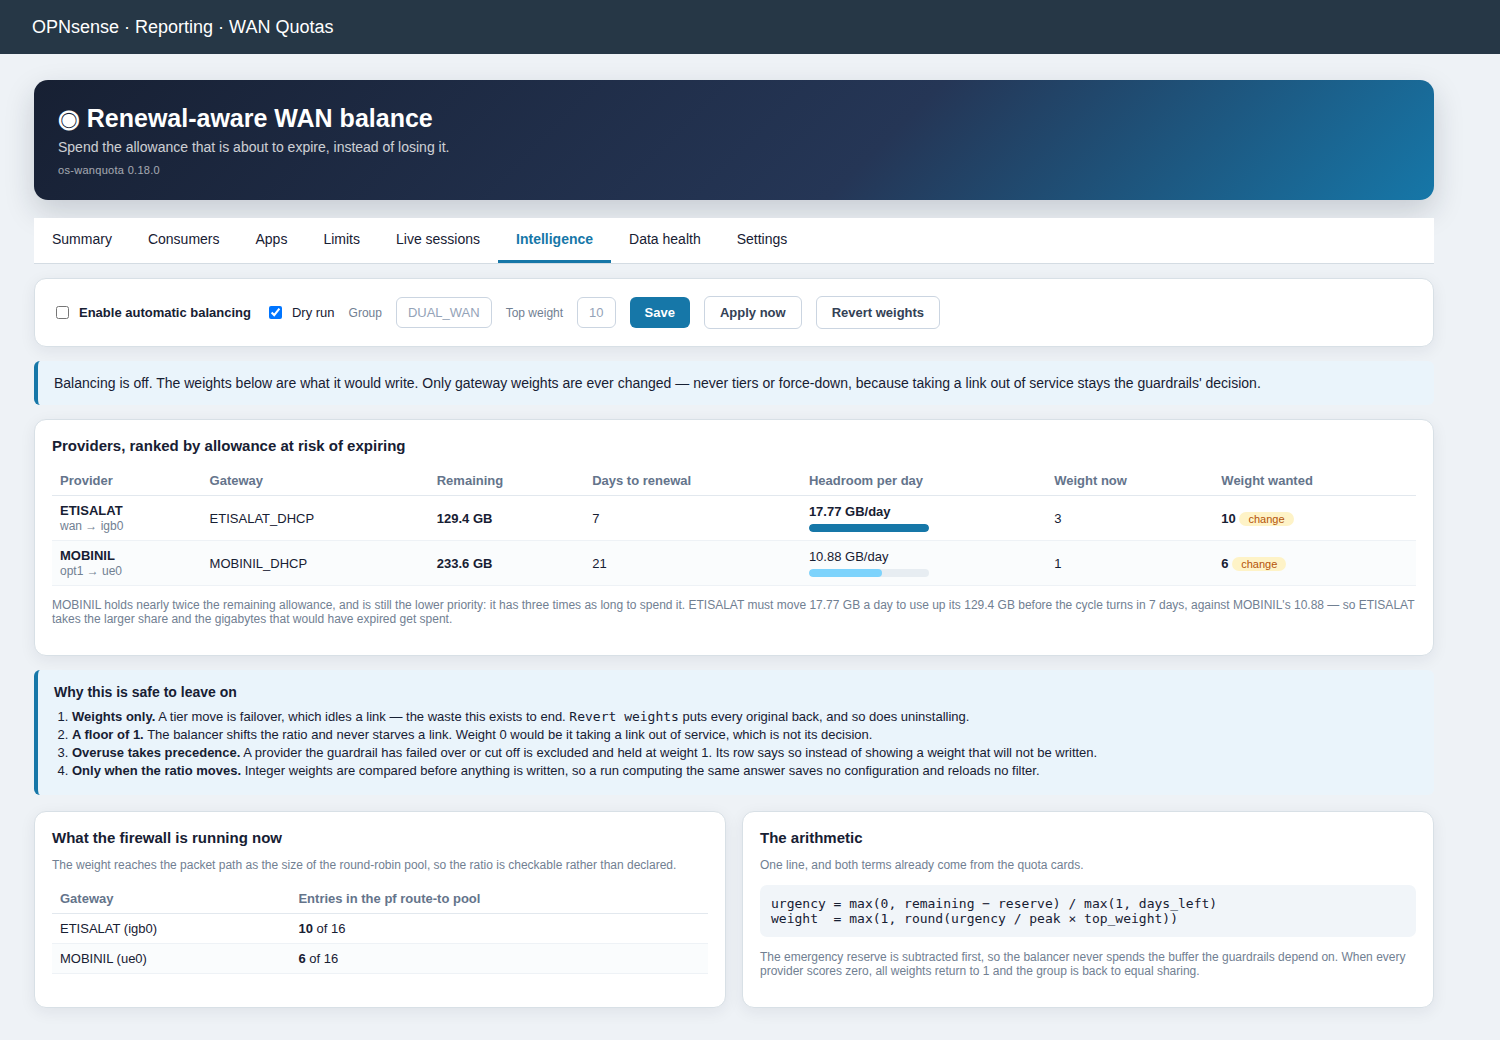
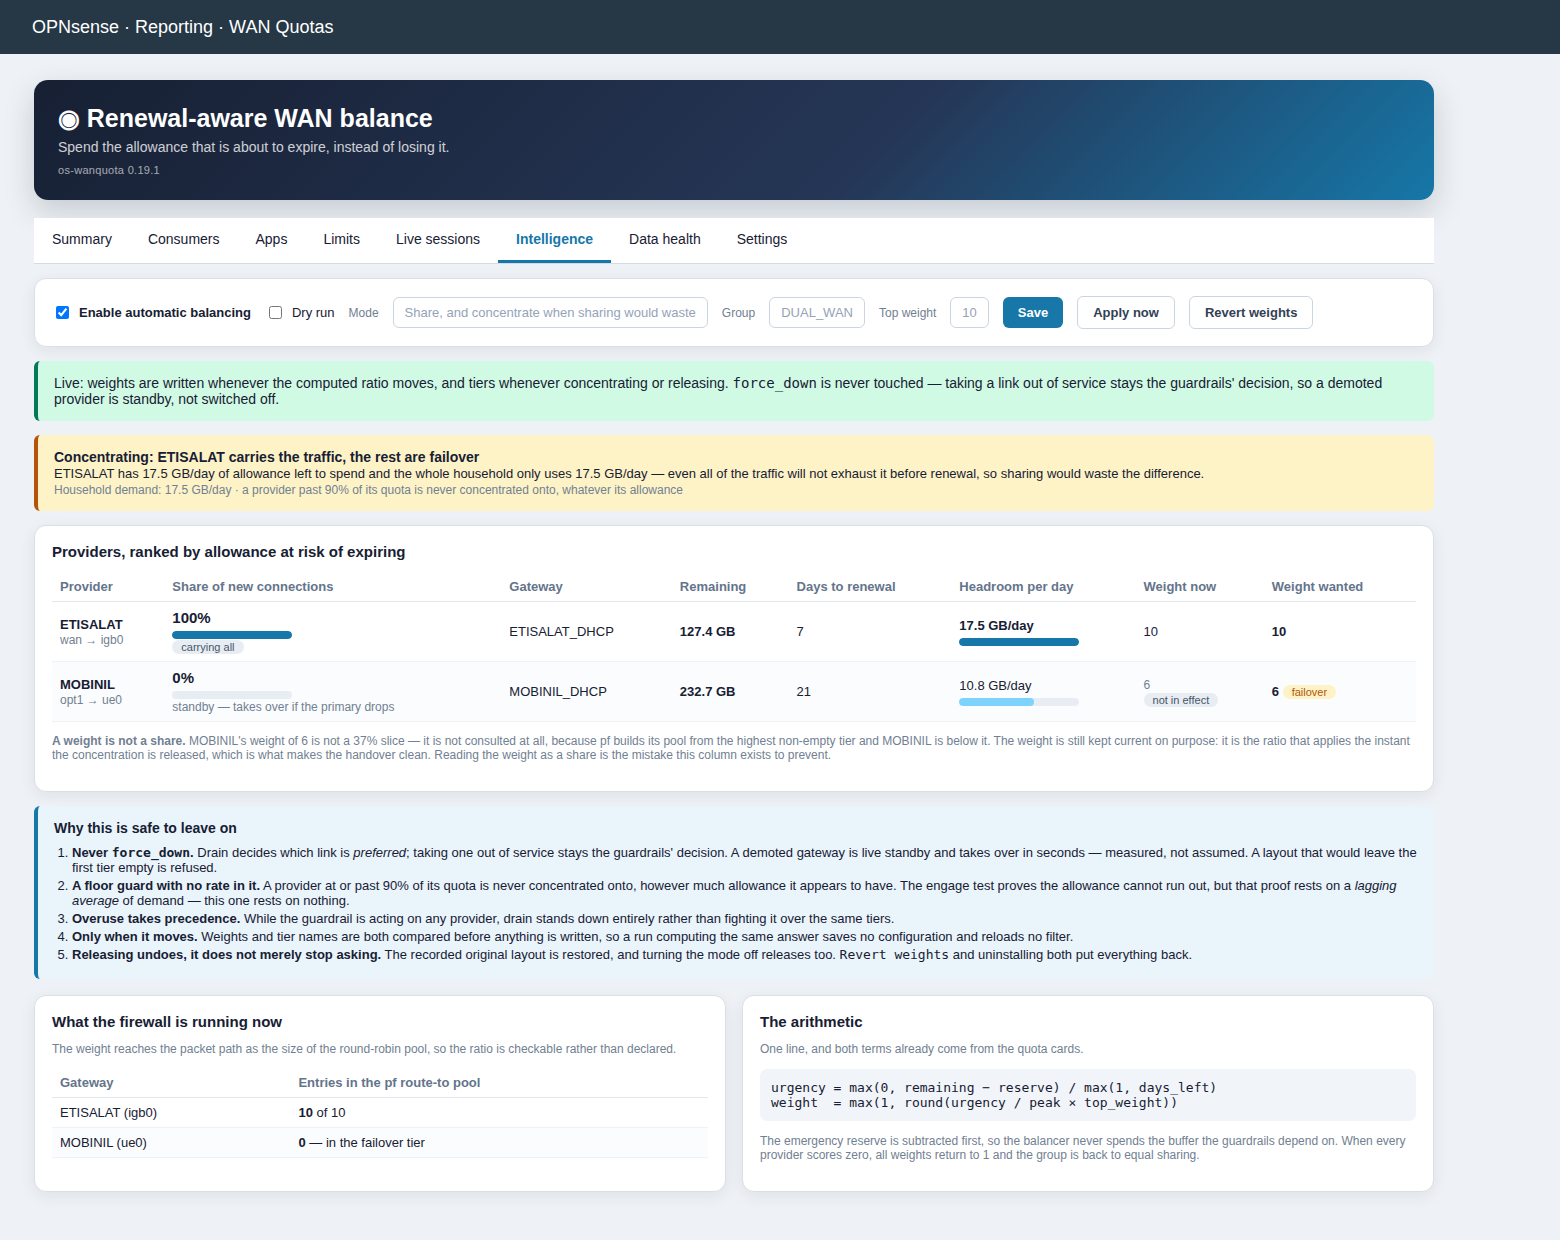
Lead with the share, and say when a weight is not being consulted
"Weight 6" beside a link carrying nothing is a fair way to be misled, and it misled
the person reading it -- reasonably, since 10:6 looks like 63/37. It was 0%. A
gateway in a lower tier receives nothing whatever its weight, because pf builds its
pool from the highest non-empty tier and ignores the rest.

So the panel now leads with the share of new connections, computed from the tier
layout and the weights together the way pf builds the pool, with a bar and a plain
"standby -- takes over if the primary drops" under a zero. The weight columns stay,
because the ratio still matters, but a weight that is not consulted is greyed and
marked "not in effect" with the reason: it is kept current on purpose, since it is
the ratio that applies the instant a concentration is released, and holding the
right value there is what makes the handover clean.

Verified against the firewall rather than the intent: the panel reports 100% / 0%
and the pf pool holds ten igb0 entries and zero ue0.

The mockup and screenshot carried text from before drain existed -- "only gateway
weights are ever changed, never tiers" -- which now contradicted the panel beside
it. Both corrected.

Changed region(s): [[0.0, 0.0, 1.0, 0.9846], [0.0307, 0.9538, 0.46, 0.9846], [0.3987, 0.4615, 0.4907, 0.5231]]

diff --git a/docs/mockups/wan-balance.html b/docs/mockups/wan-balance.html
@@ -2,57 +2,79 @@
 <main class="page">
 <section class="hero"><h1>&#9673; Renewal-aware WAN balance</h1>
 <p>Spend the allowance that is about to expire, instead of losing it.</p>
-<div class="ver">os-wanquota 0.18.0</div></section>
+<div class="ver">os-wanquota 0.19.1</div></section>
 <div class="tabs"><div class="tab">Summary</div><div class="tab">Consumers</div><div class="tab">Apps</div>
 <div class="tab">Limits</div><div class="tab">Live sessions</div><div class="tab active">Intelligence</div>
 <div class="tab">Data health</div><div class="tab">Settings</div></div>
 
 <div class="card" style="margin-top:14px;display:flex;align-items:center;gap:14px;flex-wrap:wrap">
-<span class="sw"><input type=checkbox> <b>Enable automatic balancing</b></span>
-<span class="sw"><input type=checkbox checked> Dry run</span>
+<span class="sw"><input type=checkbox checked> <b>Enable automatic balancing</b></span>
+<span class="sw"><input type=checkbox> Dry run</span>
+<span class="muted">Mode</span><span class="inp">Share, and concentrate when sharing would waste</span>
 <span class="muted">Group</span><span class="inp">DUAL_WAN</span>
 <span class="muted">Top weight</span><span class="inp">10</span>
 <span class="btn">Save</span><span class="btn ghost">Apply now</span><span class="btn ghost">Revert weights</span></div>
 
-<div style="margin-top:14px;padding:14px 16px;border-left:4px solid #1677a8;background:#eaf4fb;border-radius:6px">
-Balancing is off. The weights below are what it would write. Only gateway weights are ever changed
-&mdash; never tiers or force-down, because taking a link out of service stays the guardrails' decision.</div>
+<div style="margin-top:14px;padding:14px 16px;border-left:4px solid #047857;background:#d1fae5;border-radius:6px">
+Live: weights are written whenever the computed ratio moves, and tiers whenever concentrating or
+releasing. <code>force_down</code> is never touched &mdash; taking a link out of service stays the
+guardrails' decision, so a demoted provider is standby, not switched off.</div>
+
+<div style="margin-top:14px;padding:14px 16px;border-left:4px solid #b45309;background:#fef3c7;border-radius:6px">
+<b>Concentrating: ETISALAT carries the traffic, the rest are failover</b><br>
+<span style="font-size:13px">ETISALAT has 17.5 GB/day of allowance left to spend and the whole household
+only uses 17.5 GB/day &mdash; even all of the traffic will not exhaust it before renewal, so sharing
+would waste the difference.</span><br>
+<span class="muted">Household demand: 17.5 GB/day &middot; a provider past 90% of its quota is never
+concentrated onto, whatever its allowance</span></div>
 
 <div class="card" style="margin-top:14px"><h3>Providers, ranked by allowance at risk of expiring</h3><table>
-<thead><tr><th>Provider</th><th>Gateway</th><th>Remaining</th><th>Days to renewal</th>
-<th>Headroom per day</th><th>Weight now</th><th>Weight wanted</th></tr></thead>
+<thead><tr><th>Provider</th><th>Share of new connections</th><th>Gateway</th><th>Remaining</th>
+<th>Days to renewal</th><th>Headroom per day</th><th>Weight now</th><th>Weight wanted</th></tr></thead>
 <tbody>
 <tr><td><b>ETISALAT</b><br><span class="muted">wan &rarr; igb0</span></td>
-<td>ETISALAT_DHCP</td><td><b>129.4 GB</b></td><td>7</td>
-<td><b>17.77 GB/day</b><div class="bar" style="margin-top:5px;max-width:120px"><i style="width:100%;background:#1677a8"></i></div></td>
-<td>3</td><td><b>10</b> <span class="pill warn">change</span></td></tr>
+<td><b style="font-size:15px">100%</b><div class="bar" style="margin-top:5px;max-width:120px"><i style="width:100%;background:#1677a8"></i></div>
+<span class="pill">carrying all</span></td>
+<td>ETISALAT_DHCP</td><td><b>127.4 GB</b></td><td>7</td>
+<td><b>17.5 GB/day</b><div class="bar" style="margin-top:5px;max-width:120px"><i style="width:100%;background:#1677a8"></i></div></td>
+<td>10</td><td><b>10</b></td></tr>
 <tr><td><b>MOBINIL</b><br><span class="muted">opt1 &rarr; ue0</span></td>
-<td>MOBINIL_DHCP</td><td><b>233.6 GB</b></td><td>21</td>
-<td>10.88 GB/day<div class="bar" style="margin-top:5px;max-width:120px"><i style="width:61%;background:#7dd3fc"></i></div></td>
-<td>1</td><td><b>6</b> <span class="pill warn">change</span></td></tr>
+<td><b style="font-size:15px">0%</b><div class="bar" style="margin-top:5px;max-width:120px"><i style="width:0%"></i></div>
+<span class="muted">standby &mdash; takes over if the primary drops</span></td>
+<td>MOBINIL_DHCP</td><td><b>232.7 GB</b></td><td>21</td>
+<td>10.8 GB/day<div class="bar" style="margin-top:5px;max-width:120px"><i style="width:62%;background:#7dd3fc"></i></div></td>
+<td><span class="muted">6</span><br><span class="pill">not in effect</span></td>
+<td><b>6</b> <span class="pill warn">failover</span></td></tr>
 </tbody></table>
-<p class="muted">MOBINIL holds nearly twice the remaining allowance, and is still the lower priority:
-it has three times as long to spend it. ETISALAT must move 17.77 GB a day to use up its 129.4 GB
-before the cycle turns in 7 days, against MOBINIL's 10.88 &mdash; so ETISALAT takes the larger share
-and the gigabytes that would have expired get spent.</p></div>
+<p class="muted"><b>A weight is not a share.</b> MOBINIL's weight of 6 is not a 37% slice &mdash; it
+is not consulted at all, because pf builds its pool from the highest non-empty tier and MOBINIL is
+below it. The weight is still kept current on purpose: it is the ratio that applies the instant the
+concentration is released, which is what makes the handover clean. Reading the weight as a share is
+the mistake this column exists to prevent.</p></div>
 
 <div class="why"><b>Why this is safe to leave on</b>
-<ol><li><b>Weights only.</b> A tier move is failover, which idles a link &mdash; the waste this exists
-to end. <code>Revert weights</code> puts every original back, and so does uninstalling.</li>
-<li><b>A floor of 1.</b> The balancer shifts the ratio and never starves a link. Weight 0 would be it
-taking a link out of service, which is not its decision.</li>
-<li><b>Overuse takes precedence.</b> A provider the guardrail has failed over or cut off is excluded
-and held at weight 1. Its row says so instead of showing a weight that will not be written.</li>
-<li><b>Only when the ratio moves.</b> Integer weights are compared before anything is written, so a
-run computing the same answer saves no configuration and reloads no filter.</li></ol></div>
+<ol><li><b>Never <code>force_down</code>.</b> Drain decides which link is <i>preferred</i>; taking one
+out of service stays the guardrails' decision. A demoted gateway is live standby and takes over in
+seconds &mdash; measured, not assumed. A layout that would leave the first tier empty is refused.</li>
+<li><b>A floor guard with no rate in it.</b> A provider at or past 90% of its quota is never
+concentrated onto, however much allowance it appears to have. The engage test proves the allowance
+cannot run out, but that proof rests on a <i>lagging average</i> of demand &mdash; this one rests on
+nothing.</li>
+<li><b>Overuse takes precedence.</b> While the guardrail is acting on any provider, drain stands down
+entirely rather than fighting it over the same tiers.</li>
+<li><b>Only when it moves.</b> Weights and tier names are both compared before anything is written, so
+a run computing the same answer saves no configuration and reloads no filter.</li>
+<li><b>Releasing undoes, it does not merely stop asking.</b> The recorded original layout is restored,
+and turning the mode off releases too. <code>Revert weights</code> and uninstalling both put
+everything back.</li></ol></div>
 
 <div class="grid" style="grid-template-columns:repeat(2,1fr)">
 <div class="card"><h3>What the firewall is running now</h3>
 <p class="muted" style="margin-top:0">The weight reaches the packet path as the size of the
 round-robin pool, so the ratio is checkable rather than declared.</p>
 <table><thead><tr><th>Gateway</th><th>Entries in the pf route-to pool</th></tr></thead><tbody>
-<tr><td>ETISALAT (igb0)</td><td><b>10</b> of 16</td></tr>
-<tr><td>MOBINIL (ue0)</td><td><b>6</b> of 16</td></tr>
+<tr><td>ETISALAT (igb0)</td><td><b>10</b> of 10</td></tr>
+<tr><td>MOBINIL (ue0)</td><td><b>0</b> &mdash; in the failover tier</td></tr>
 </tbody></table></div>
 <div class="card"><h3>The arithmetic</h3>
 <p class="muted" style="margin-top:0">One line, and both terms already come from the quota cards.</p>

diff --git a/src/opnsense/scripts/OPNsense/WanQuota/balance.py b/src/opnsense/scripts/OPNsense/WanQuota/balance.py
@@ -228,6 +228,46 @@ def tier_plan(rows, decision, group):
     return {"wanted": wanted, "current": current, "moves": moves}
 
 
+# Tier names in priority order. pf builds its pool from the highest non-empty tier
+# and ignores the rest, which is why a weight in a lower tier has no effect at all.
+TIER_ORDER = ("item", "item2", "item3", "item4", "item5")
+
+
+def shares(rows, tiers):
+    """Percentage of new connections each provider should actually receive.
+
+    Computed from the tier layout and the weights together, because that is how pf
+    builds the pool: only the highest non-empty tier contributes entries, and within
+    it a gateway's weight *is* its number of entries. A weight in a lower tier is
+    not a small share, it is no share — which is the thing raw weights hide. Reading
+    "weight 6" beside a link carrying nothing is a fair way to be misled, so the
+    percentage is derived here rather than left to the interface to guess at.
+
+    Sets `share_percent` and `weight_in_effect` on each row and returns them.
+    """
+    layout = dict((tiers or {}).get("wanted") or (tiers or {}).get("current") or {})
+    active = []
+    if layout:
+        for tier in TIER_ORDER:
+            named = [gateway for gateway, where in layout.items() if where == tier]
+            if named:
+                active = named
+                break
+    for row in rows:
+        gateway = row.get("gateway")
+        # With no layout known at all, every provider that has a gateway shares —
+        # the group has one tier and the weights are what split it.
+        row["weight_in_effect"] = bool(gateway) and (not active or gateway in active)
+    carrying = [row for row in rows if row.get("weight_in_effect")]
+    total = sum(max(1, int(row.get("weight") or 1)) for row in carrying)
+    for row in rows:
+        if row.get("weight_in_effect") and total > 0:
+            row["share_percent"] = max(1, int(row.get("weight") or 1)) / total * 100
+        else:
+            row["share_percent"] = 0.0
+    return rows
+
+
 def release_needed(decision, inventory):
     """True when a drain is in force and the condition for it no longer holds.
 
@@ -353,6 +393,7 @@ def build(providers, cfg, inventory, decisions=None):
     plan = tier_plan(rows, decision, group)
     plan["release"] = release_needed(decision, inventory)
     mode = str(cfg.get("balance_mode") or "weights")
+    shares(rows, plan)
     if mode != "drain":
         decision = {**decision, "engaged": False, "target": None, "allowed": False,
                     "reason": decision["reason"] + " (drain mode is off, so tiers are "
@@ -361,6 +402,9 @@ def build(providers, cfg, inventory, decisions=None):
         # not be left behind by turning the mode off.
         plan = {"wanted": {}, "current": plan["current"], "moves": [],
                 "release": bool(inventory.get("drained"))}
+        # Recompute against the layout that will actually be in force once the
+        # release lands, not the drained one the discarded plan described.
+        shares(rows, {"current": {} if plan["release"] else plan["current"]})
     else:
         decision["allowed"] = True
 

diff --git a/tests/test_balance.py b/tests/test_balance.py
@@ -417,3 +417,61 @@ class FloorGuardTests(unittest.TestCase):
         decision = BALANCE.drain_decision(rows, 10 * GB, draining=True,
                                           ceiling_percent=90)
         self.assertFalse(decision["engaged"])
+
+
+class ShareTests(unittest.TestCase):
+    """The percentage each link actually receives, which weights alone hide.
+
+    A weight in a lower tier is not a small share, it is no share: pf builds its
+    pool from the highest non-empty tier and ignores the rest. Reading "weight 6"
+    beside a link carrying nothing is a fair way to be misled.
+    """
+
+    def rows(self):
+        return [{"name": "ETISALAT", "gateway": "E_GW", "weight": 10},
+                {"name": "MOBINIL", "gateway": "M_GW", "weight": 6}]
+
+    def shares(self, rows, tiers):
+        return {r["name"]: round(r["share_percent"], 1)
+                for r in BALANCE.shares(rows, tiers)}
+
+    def test_one_shared_tier_splits_by_weight(self):
+        got = self.shares(self.rows(), {"current": {"E_GW": "item", "M_GW": "item"}})
+        self.assertEqual(got, {"ETISALAT": 62.5, "MOBINIL": 37.5})
+
+    def test_a_demoted_link_receives_nothing_whatever_its_weight(self):
+        """The whole point: weight 6 in tier 2 is 0%, not 37.5%."""
+        got = self.shares(self.rows(), {"current": {"E_GW": "item", "M_GW": "item2"}})
+        self.assertEqual(got, {"ETISALAT": 100.0, "MOBINIL": 0.0})
+
+    def test_weight_in_effect_says_which_weights_matter(self):
+        rows = BALANCE.shares(self.rows(),
+                              {"current": {"E_GW": "item", "M_GW": "item2"}})
+        self.assertEqual([r["weight_in_effect"] for r in rows], [True, False])
+
+    def test_a_planned_move_is_reflected_before_it_is_written(self):
+        """The panel should show the split it is about to produce, not the old one."""
+        got = self.shares(self.rows(),
+                          {"current": {"E_GW": "item", "M_GW": "item"},
+                           "wanted": {"E_GW": "item", "M_GW": "item2"}})
+        self.assertEqual(got, {"ETISALAT": 100.0, "MOBINIL": 0.0})
+
+    def test_the_highest_non_empty_tier_is_the_one_that_carries(self):
+        got = self.shares(self.rows(), {"current": {"E_GW": "item2", "M_GW": "item2"}})
+        self.assertEqual(got, {"ETISALAT": 62.5, "MOBINIL": 37.5})
+
+    def test_a_provider_with_no_gateway_gets_nothing(self):
+        rows = [{"name": "SPARE", "gateway": "", "weight": 10},
+                {"name": "REAL", "gateway": "R_GW", "weight": 4}]
+        got = self.shares(rows, {"current": {"R_GW": "item"}})
+        self.assertEqual(got, {"SPARE": 0.0, "REAL": 100.0})
+
+    def test_no_layout_known_still_splits_by_weight(self):
+        got = self.shares(self.rows(), {})
+        self.assertEqual(got, {"ETISALAT": 62.5, "MOBINIL": 37.5})
+
+    def test_the_ten_to_one_ceiling_is_visible_as_a_percentage(self):
+        rows = [{"name": "A", "gateway": "A", "weight": 10},
+                {"name": "B", "gateway": "B", "weight": 1}]
+        got = self.shares(rows, {"current": {"A": "item", "B": "item"}})
+        self.assertEqual(got, {"A": 90.9, "B": 9.1})
